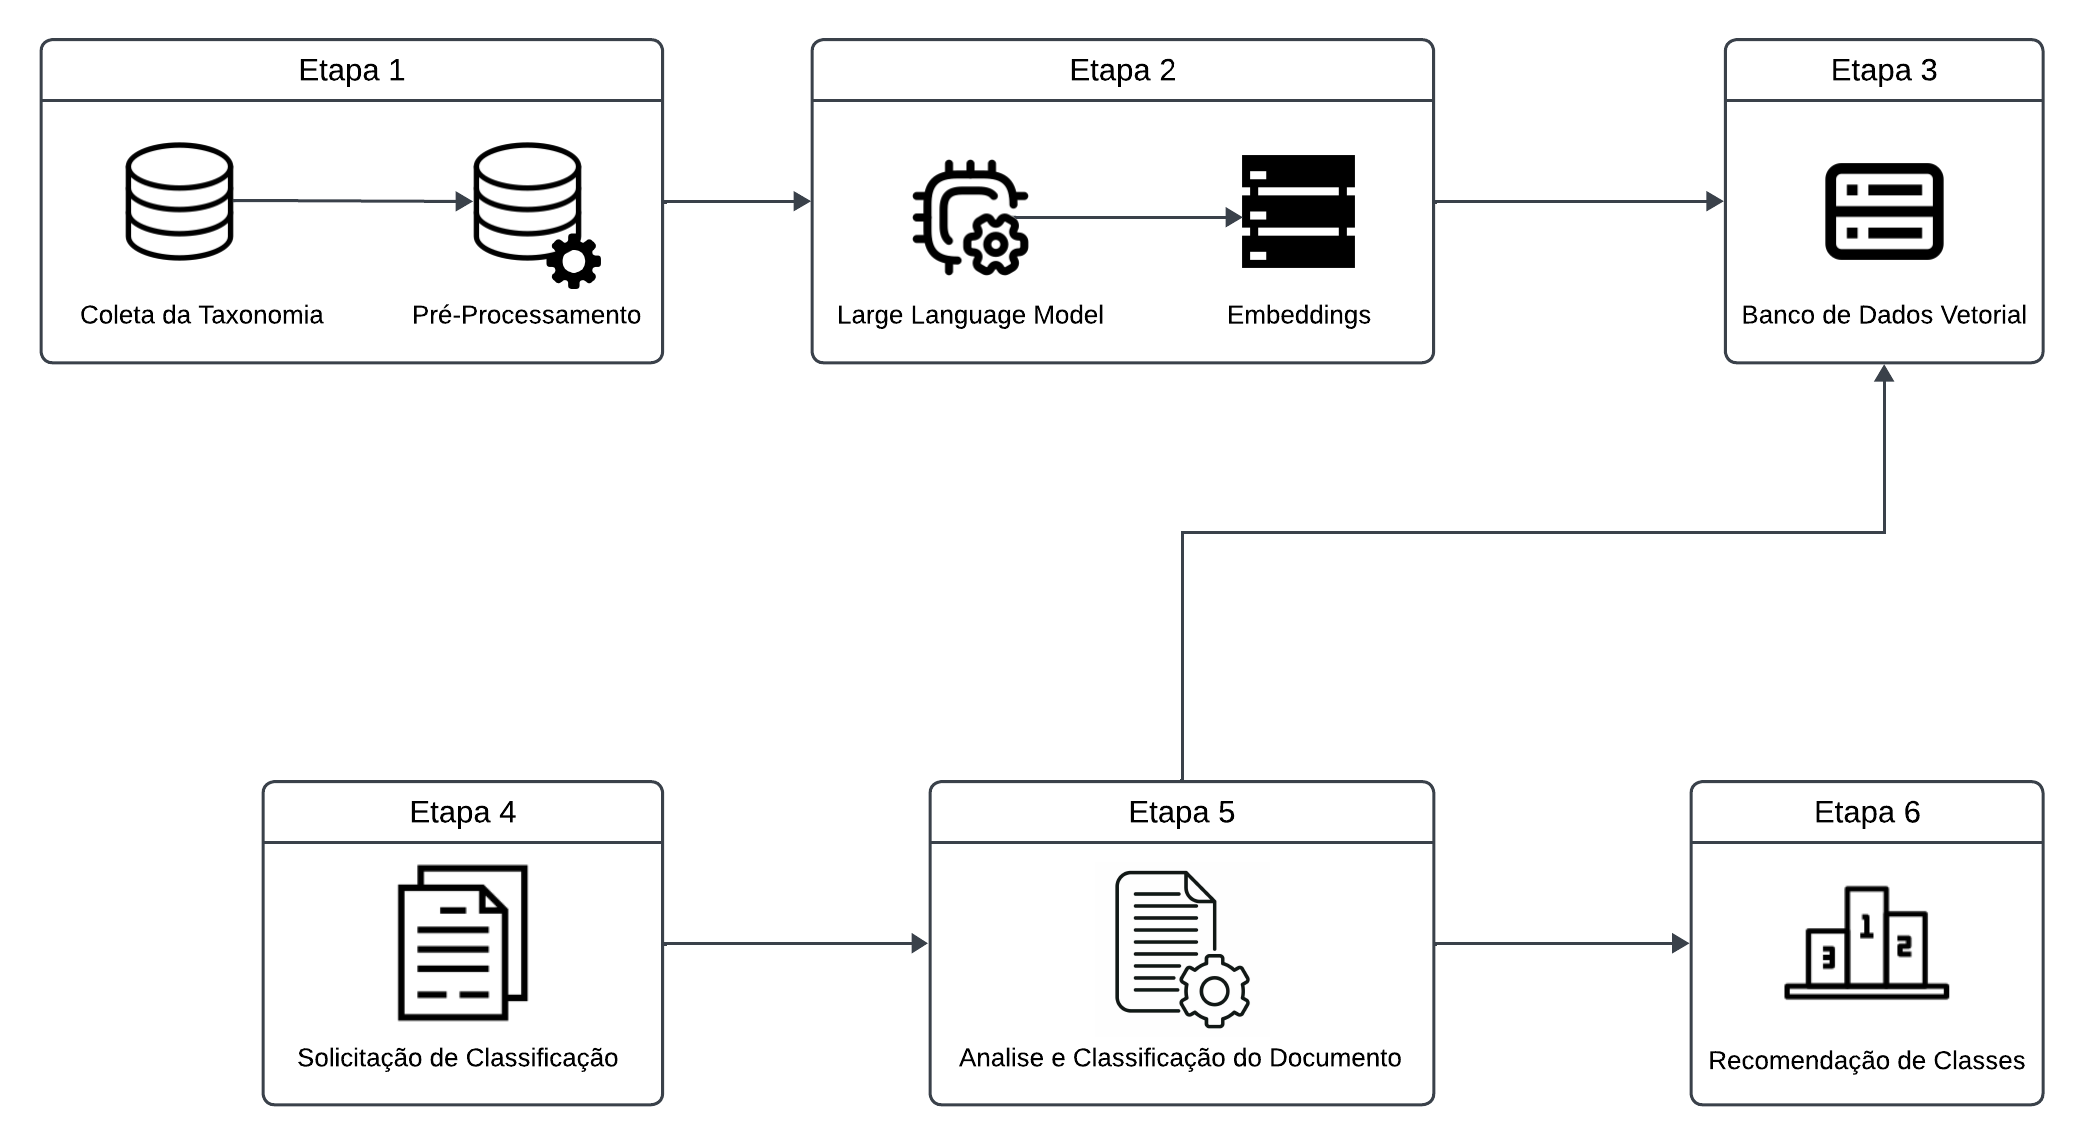
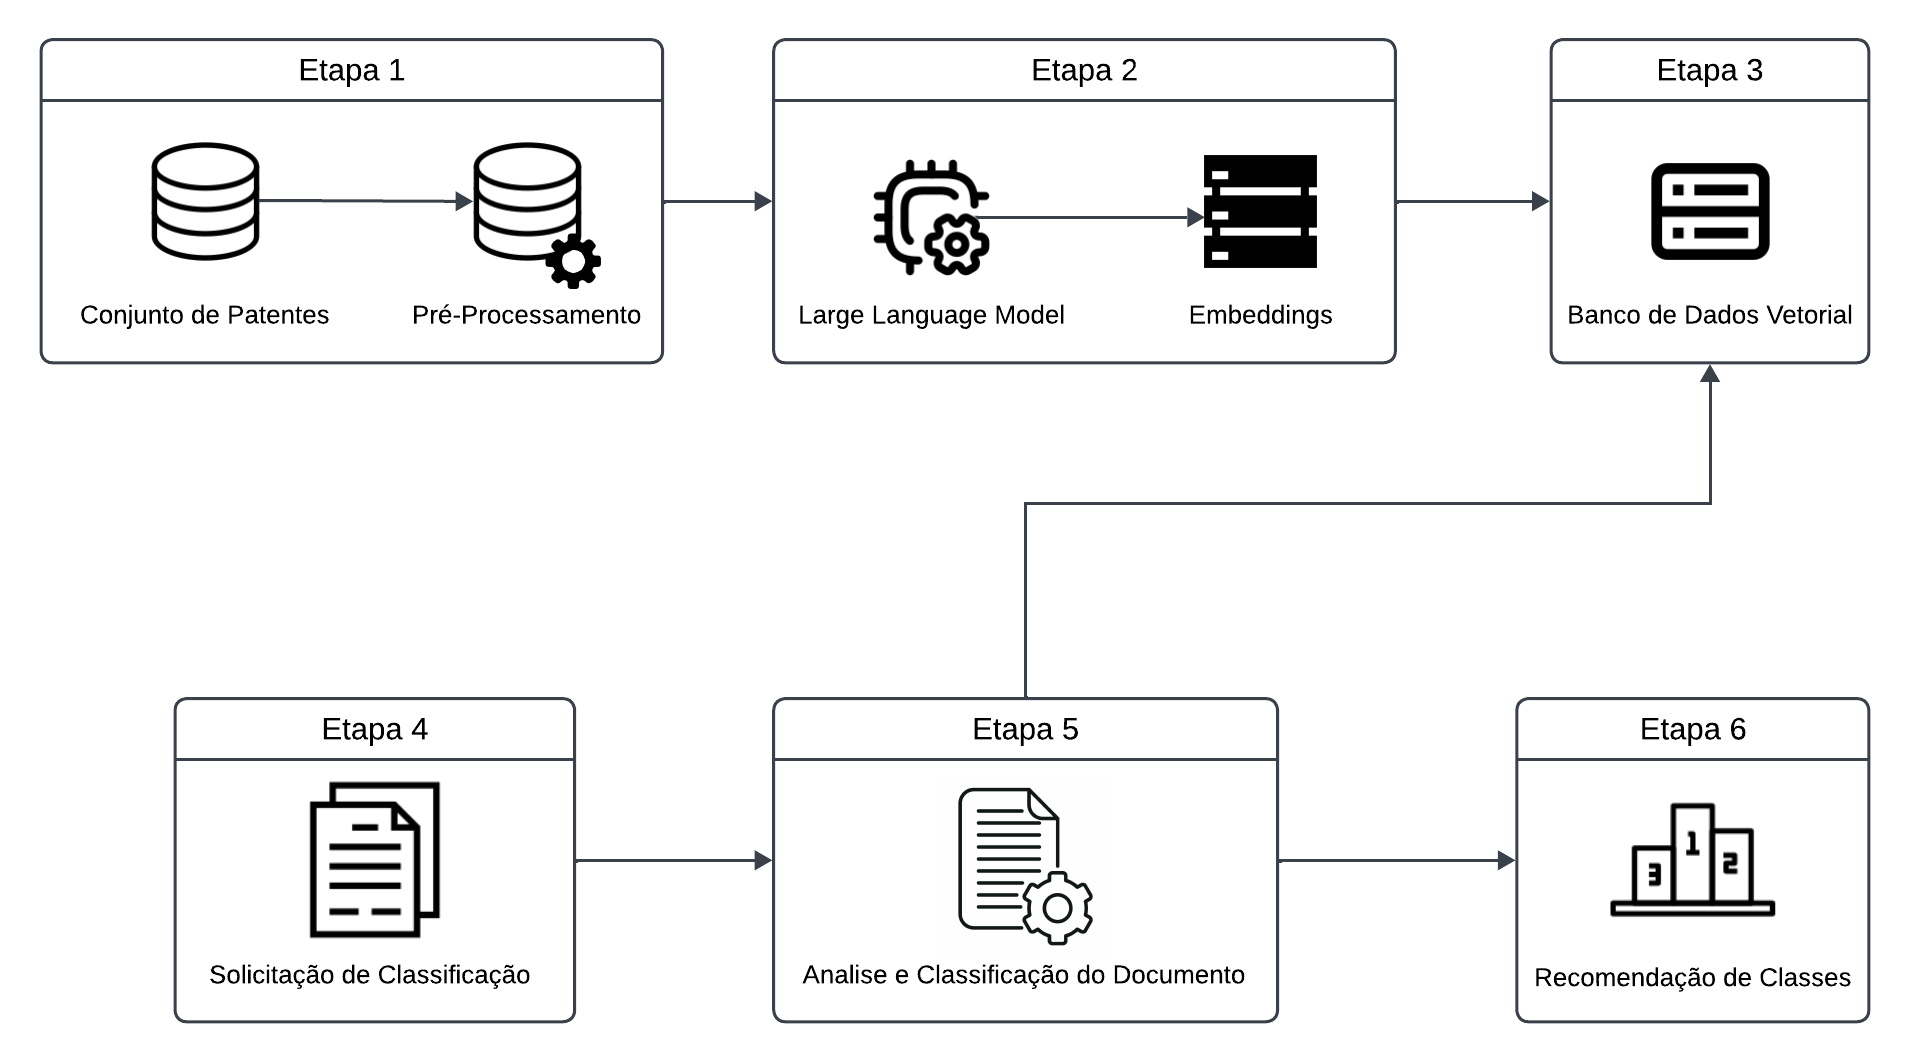
Readme update

diff --git a/README.md b/README.md
@@ -1,9 +1,23 @@
 # Classificação multi-saída de patentes utilizando vetores densos e bancos de dados vetoriais
-## 1. Introdução
+## 1. Contextualização
 
-Este trabalho tem por objetivo a proposição e o desenvolvimento de um método voltado a classificação de patentes por meio da indexação semântica a partir da taxonomia utilizada no processo de rotulagem, ao invés de considerar patentes previamente classificadas visando reduzir a complexidade computacional do processo como um todo e, possivelmente, incrementar a acurácia da classificação
+Documentos de patentes contêm uma grande quantidade de informação na qual devem ser analisados e categorizados de forma a evitar violações de propriedade intelectual no desenvolvimento de novas patentes, com o propósito de auxiliar nesta tarefa e padronizar a classificação destas patentes a Organização Mundial de Propriedade Intelectual(do inglês World Intellectual Property Organization - WIPO) desenvolveu uma taxonomia padrão chamada de Classificação Internacional de Patentes(International Patent Classification - IPC) que contém cerca de de 80.000 categorias a quais cobrem todos tipos de tecnologias industriais.(Sofean, 2021)
+
+Tendo em vista a importância sobre as patentes (Ruijie et al, 2021) relata que existem diversas etapas as quais uma patente deve passar para sua aprovação sendo uma delas a tarefa de classificação de patentes a qual é tratada nesta aplicação, sendo que esta tarefa é de um grau complexo com uma patente podendo ser classificada com mais de uma categoria dentre um grupo de cerca de 80.000 categorias sendo elas divididas em 8 seções em seu nível mais elevado, e então em 128 classes e 648 subclasses e nessas subclasses, com cerca de 7200 grupos principais e 72.000 subgrupos ao nível mais baixo sendo assim a atribuição correta destas categorias é de grande importância na tarefa de classificação de patentes.(Sofean, 2021)
+
+Segundo (Choi. et al., 2022) a tarefa de classificação de patentes era exclusivamente realizada por humanos, porém esta é uma tarefa complexa muitas vezes requerendo que os avaliadores tenham um amplo conhecimento dos domínios técnicos e científicos sendo assim é de grande interesse o desenvolvimento de ferramentas para os auxiliá-los ou até mesmo que seja automatizada esta tarefa.
+
+Atualmente com os avanços na área  de inteligência artificial e processamento de linguagem natural é visto que existe um crescente aumento no desenvolvimento de técnicas de como realizar a classificação de patentes, porém ainda se é necessário que haja intervenção humana no resultado destas técnicas além de que computacionalmente esta tarefa possui custo relativamente elevado (Lee e Hsiang, 2020).
 
 ## 2. Descrição da proposta
+
+A proposta desenvolvida neste trabalho busca auxiliar a tarefa de classificação de patentes ao nivel de subclasse com um foco especifico na redução do custo computacional diminuindo drasticamente a quantidade de documentos necessarios utilizados em metodos tradicionais onde se é utilizado o conjunto de patentes chamado USPTO-2M® criado por (LI et al., 2018) em sua totalidade, onde se existem mais de 2 milhões de patentes. Para este trabalho foi utilizado parte do conjuntos de dados criado por (LI et al., 2018), mais especificadamente o conjunto de patentes do ano de 2014 onde se possuem 303.334 patentes para a criação da base de dados e o conjunto de patentes do ano de 2015 que possui 49.900 patentes como um conjunto de teste para a verificação da acuracia. 
+
+A solução desenvolvida utiliza-se do conjunto de patentes do ano de 2014 criado por (LI et al., 2018) para criação embeddings ou seja uma representação vetorial para cada umas das subclasses existentes limitando-se a até 200 patentes para cada subclasse onde cada patente possuirá somente uma unica subclasse atrelada a seu documento afim de melhor criar uma representação vetorial unica para cada subclasse, esta representação então será armazenada em um banco de dados vetorial para que seja possivel realizar futuras consultas sem que haja a necessidade de recriar os embeddings novamente.
+
+Para a criação do banco de dados vetorial que será a base deste projeto foi utilizado o serviço da empresa QDrant onde eles disponibilizam de forma gratuida a criação de um cluster onde se é possivel armazenar um banco de dados vetorial, alem de realizar busca por similiriadidade nos vetores armazenados.
+
+Por fim foi criado um prototipo onde inserido o titulo e o resumo de uma patente estas informações serão transformadas em um embeddings a qual serão comparados aos valores armazenados no banco de dados vetorial e então será retornado os documentos com a maior similiriadidade com a patente submetida e serão classificado de forma decrescente onde em primeiro lugar será a subclasse mais frequente e o ultimo colocado a subclasse menos frequente.
 
 ### Diagrama de Comunicação
 ![diagrama_de_execucao](https://github.com/alacides/multi-output-taxonomy-classifier/blob/main/resources/Concept%20map.png?raw=true)
